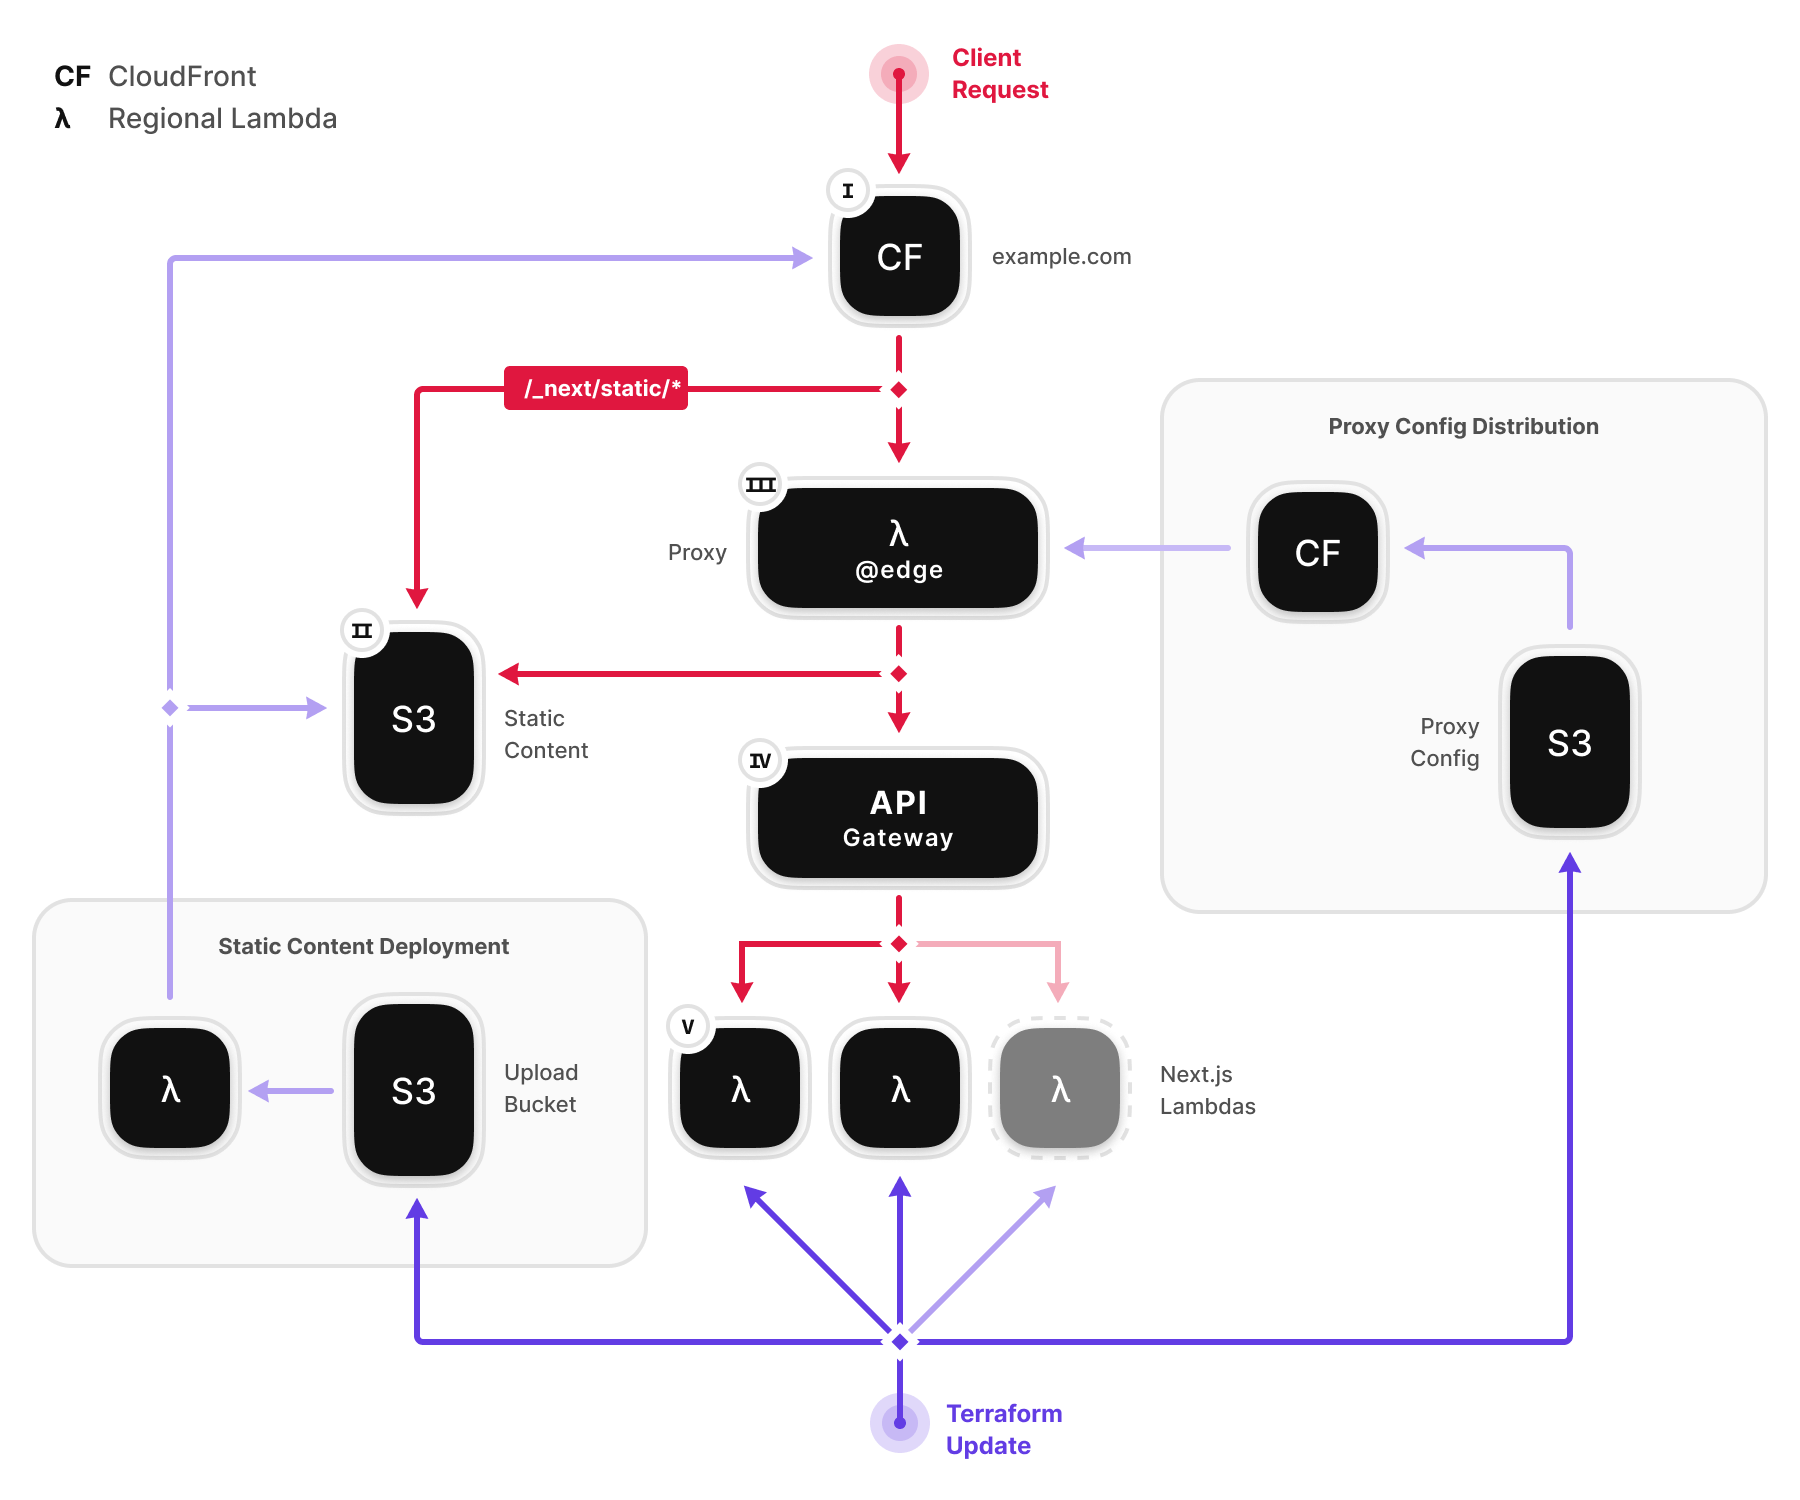
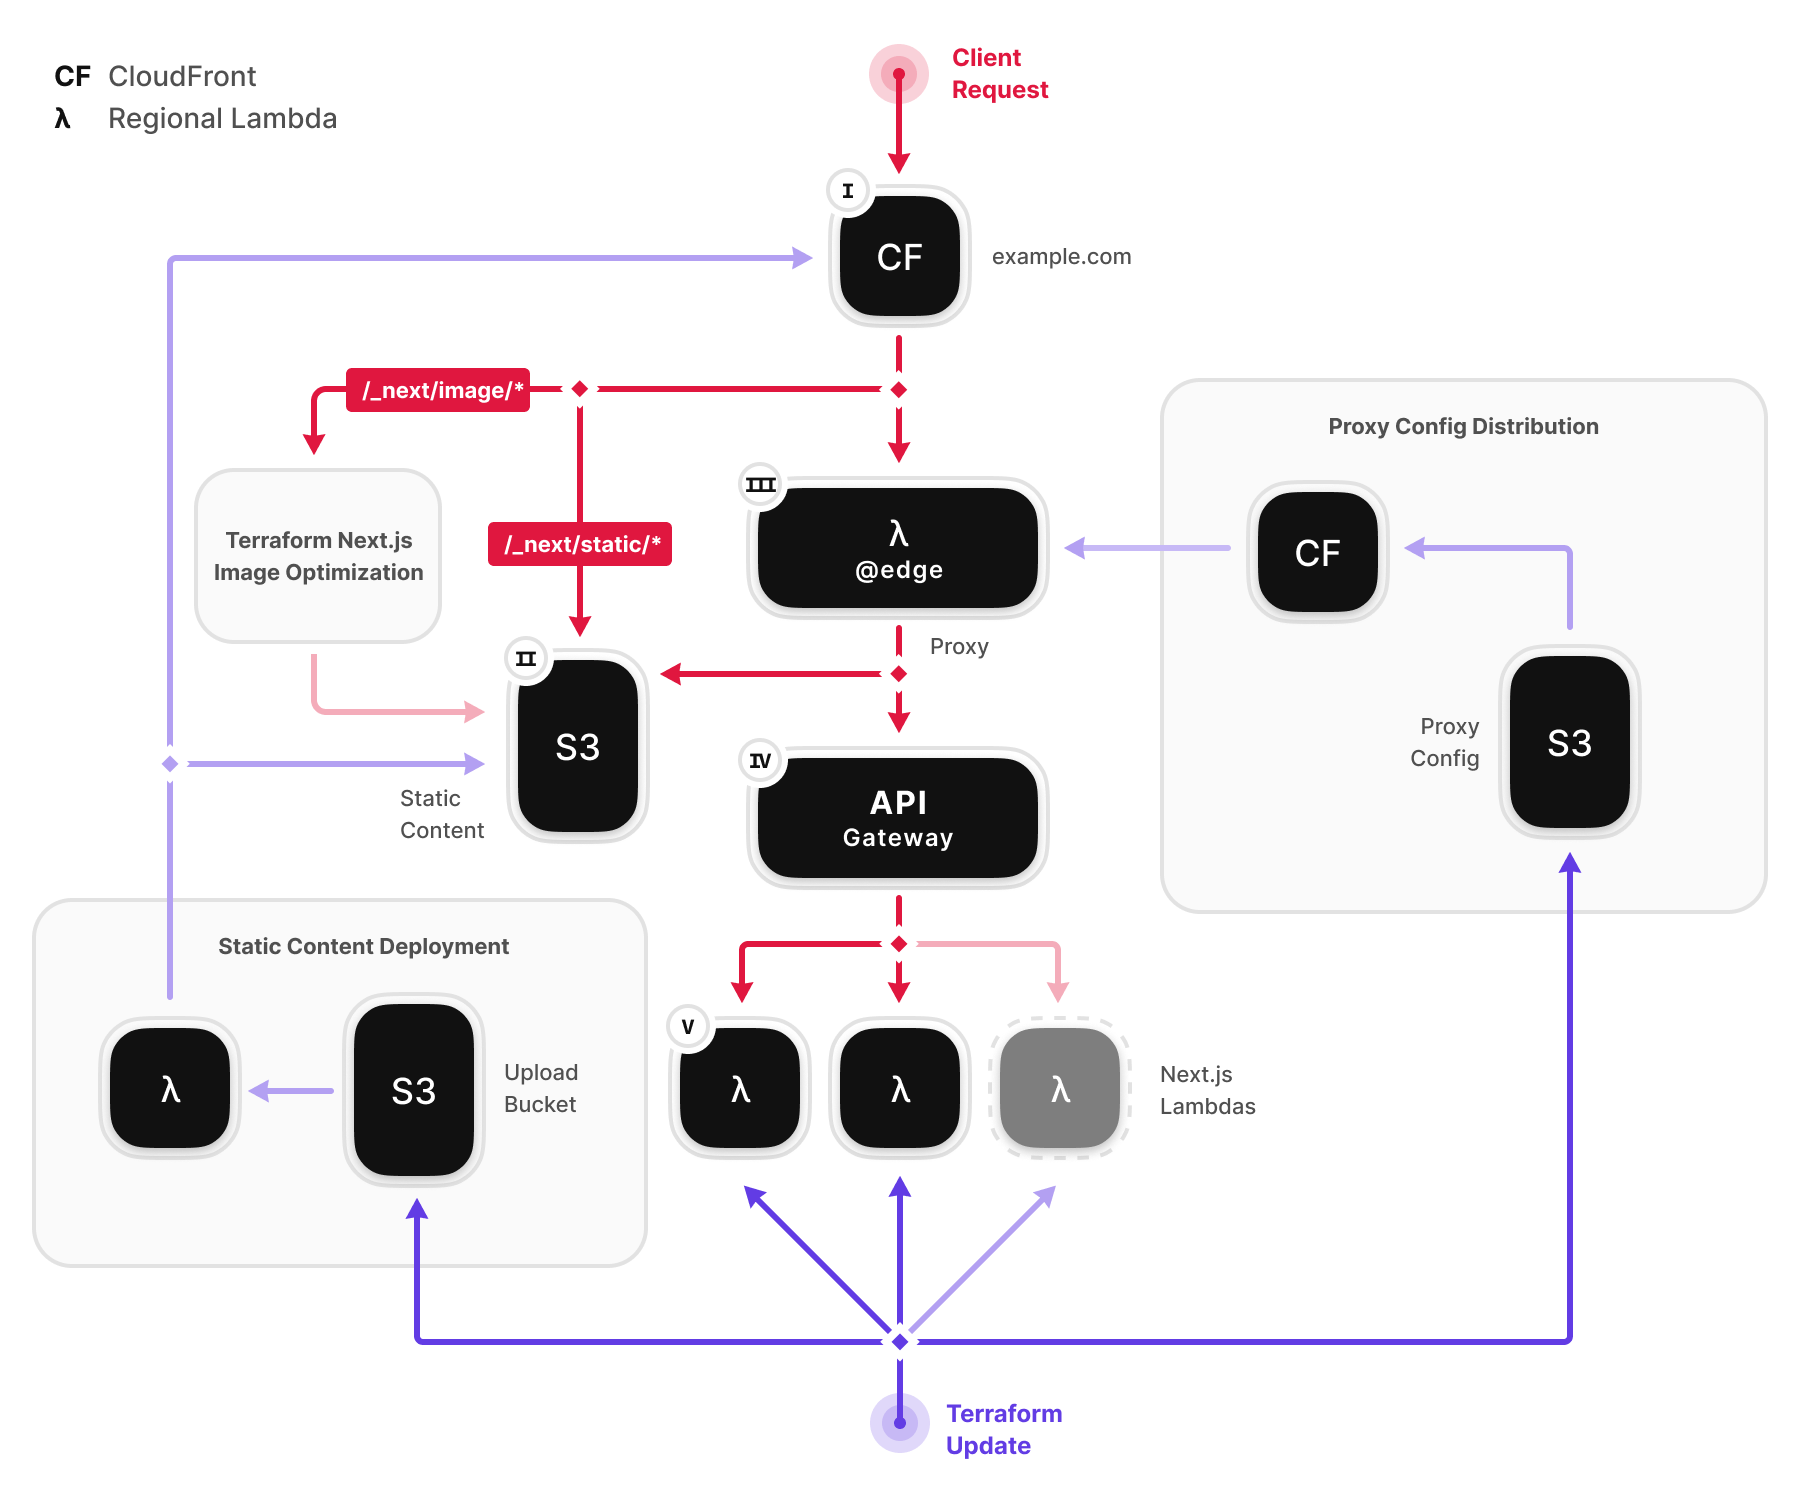
Terraform: Adds image optimization module

Changed region(s): [[0.0933, 0.2453, 0.4044, 0.5827]]

diff --git a/README.md b/README.md
@@ -13,6 +13,7 @@ Some features are still under development, here is a list of features that are c
 - ✅ &nbsp;Static, SSG, Lambda and API pages (with [dynamic routes](https://nextjs.org/docs/routing/dynamic-routes))
 - ✅ &nbsp;Automatic expiration of old static assets
 - ✅ &nbsp;[Rewrites](https://nextjs.org/docs/api-reference/next.config.js/rewrites) & [Redirects](https://nextjs.org/docs/api-reference/next.config.js/redirects)
+- ✅ &nbsp;[Image Component & Image Optimization](https://nextjs.org/docs/basic-features/image-optimization) support
 - 🚧 &nbsp;[Incremental Static Regeneration](https://nextjs.org/docs/basic-features/data-fetching#incremental-static-regeneration)
 - 🚧 &nbsp;[AWS CodeDeploy](https://aws.amazon.com/codedeploy/)
 
@@ -37,13 +38,18 @@ The Next.js Terraform module is designed as a full stack AWS app. It relies on m
   The proxy handler analyzes the incoming requests and determines from which source a request should be served.
   Static generated sites are fetched from the S3 bucket ([`II`](#II-s3-static-content)) and dynamic content is served from the Next.js Lambdas ([`V`](#V-next-js-lambdas)).
 
-* **`IV.` API Gateway**<a id="IV-api-gateway"></a>
+- **`IV.` API Gateway**<a id="IV-api-gateway"></a>
 
   The [HTTP API Gateway](https://aws.amazon.com/api-gateway/) distributes the incoming traffic on the existing Next.js Lambdas ([`V`](#V-next-js-lambdas)). It uses a cost efficient HTTP API for this.
 
-* **`V.` Shared Next.js Lambda functions**<a id="V-next-js-lambdas"></a>
+- **`V.` Shared Next.js Lambda functions**<a id="V-next-js-lambdas"></a>
 
   These are the Next.js Lambdas which are doing the server-side rendering. They are composed, so a single lambda can serve multiple SSR-pages.
+
+- **Terraform Next.js Image Optimization**
+
+  The [image optimization](https://nextjs.org/docs/basic-features/image-optimization) is triggered by routes with the prefix `/_next/image/*`.
+  It is a serverless task provided by our [Terraform Next.js Image Optimization module for AWS](https://registry.terraform.io/modules/dealmore/next-js-image-optimization/aws).
 
 - **Static Content Deployment**
 
@@ -55,6 +61,8 @@ The Next.js Terraform module is designed as a full stack AWS app. It relies on m
   After the successful deployment a CloudFront [invalidation](https://docs.aws.amazon.com/AmazonCloudFront/latest/DeveloperGuide/Invalidation.html) is created to propagate the route changes to every edge location.
 
 - **Proxy Config Distribution**
+
+  This is a second CloudFront distribution that serves a special JSON file that the Proxy ([`III`](#III-lambda-edge-proxy)) fetches as configuration (Contains information about routes).
 
 ## Usage
 
